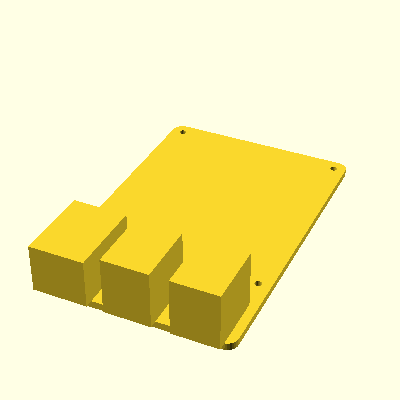
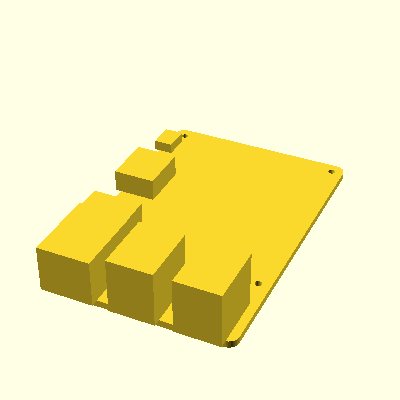
Add peripherals: micro-USB, HDMI, audio, SD card

diff --git a/src/index.js b/src/index.js
@@ -30,6 +30,31 @@ const rpi3bDimensions = {
   usbPortHeight: 16,
   usbPort1XOffset: 29,
   usbPort2XOffset: 47,
+
+  microUsbPortWidth: 5.5,
+  microUsbPortLength: 7.75,
+  microUsbPortHeight: 3,
+  microUsbPortXOverhang: 1.5,
+  microUsbPortYOffset: 10.6,
+
+  hdmiPortWidth: 12.25,
+  hdmiPortLength: 14.75,
+  hdmiPortHeight: 6.5,
+  hdmiPortXOverhang: 1.75,
+  hdmiPortYOffset: 32,
+
+  audioPortWidth: 15,
+  audioPortLength: 7.25,
+  audioPortHeight: 6,
+  audioPortXOverhang: 2.5,
+  audioPortYOffset: 53.5,
+
+  sdCardWidth: 12,
+  sdCardLength: 17,
+  sdCardHeight: 1,
+  sdCardYOverhang: 3,
+  sdCardXOffset: 28,
+  sdCardZOffset: -1,
 };
 
 // Based on the drawing for "Raspberry Pi 3B"
@@ -59,6 +84,31 @@ const RaspberryPi3B = () => {
     usbPortHeight,
     usbPort1XOffset,
     usbPort2XOffset,
+
+    microUsbPortWidth,
+    microUsbPortLength,
+    microUsbPortHeight,
+    microUsbPortXOverhang,
+    microUsbPortYOffset,
+
+    hdmiPortWidth,
+    hdmiPortLength,
+    hdmiPortHeight,
+    hdmiPortXOverhang,
+    hdmiPortYOffset,
+
+    audioPortWidth,
+    audioPortLength,
+    audioPortHeight,
+    audioPortXOverhang,
+    audioPortYOffset,
+
+    sdCardWidth,
+    sdCardLength,
+    sdCardHeight,
+    sdCardYOverhang,
+    sdCardXOffset,
+    sdCardZOffset,
   } = rpi3bDimensions;
 
   return (
@@ -90,6 +140,31 @@ const RaspberryPi3B = () => {
         port1XOffset={usbPort1XOffset}
         port2XOffset={usbPort2XOffset}
         yOverhang={peripheralsYOverhang}
+      />
+      <MicroUsbPort
+        boardLength={boardLength}
+        size={[microUsbPortWidth, microUsbPortLength, microUsbPortHeight]}
+        xOverhang={microUsbPortXOverhang}
+        yOffset={microUsbPortYOffset}
+      />
+      <HdmiPort
+        boardLength={boardLength}
+        size={[hdmiPortWidth, hdmiPortLength, hdmiPortHeight]}
+        xOverhang={hdmiPortXOverhang}
+        yOffset={hdmiPortYOffset}
+      />
+      <AudioPort
+        boardLength={boardLength}
+        size={[audioPortWidth, audioPortLength, audioPortHeight]}
+        xOverhang={audioPortXOverhang}
+        yOffset={audioPortYOffset}
+      />
+      <SdCard
+        boardSize={[boardWidth, boardLength, boardHeight]}
+        size={[sdCardWidth, sdCardLength, sdCardHeight]}
+        yOverhang={sdCardYOverhang}
+        xOffset={sdCardXOffset}
+        zOffset={sdCardZOffset}
       />
     </union>
   );
@@ -181,6 +256,55 @@ const UsbPorts = ({ portSize, port1XOffset, port2XOffset, yOverhang }) => {
       <UsbPort xOffset={port1XOffset} />
       <UsbPort xOffset={port2XOffset} />
     </union>
+  );
+};
+
+const MicroUsbPort = ({ boardLength, size, xOverhang, yOffset }) => {
+  const [width, _, height] = size;
+
+  return (
+    <cuboid
+      size={size}
+      center={[width / 2 - xOverhang, boardLength - yOffset, height / 2]}
+    />
+  );
+};
+
+const HdmiPort = ({ boardLength, size, xOverhang, yOffset }) => {
+  const [width, _, height] = size;
+
+  return (
+    <cuboid
+      size={size}
+      center={[width / 2 - xOverhang, boardLength - yOffset, height / 2]}
+    />
+  );
+};
+
+const AudioPort = ({ boardLength, size, xOverhang, yOffset }) => {
+  const [width, _, height] = size;
+
+  return (
+    <cuboid
+      size={size}
+      center={[width / 2 - xOverhang, boardLength - yOffset, height / 2]}
+    />
+  );
+};
+
+const SdCard = ({ boardSize, size, yOverhang, xOffset, zOffset }) => {
+  const [width, length, height] = size;
+  const [boardWidth, boardLength, boardHeight] = boardSize;
+
+  return (
+    <cuboid
+      size={size}
+      center={[
+        xOffset,
+        boardLength - length / 2 + yOverhang,
+        -boardHeight - height / 2,
+      ]}
+    />
   );
 };
 
